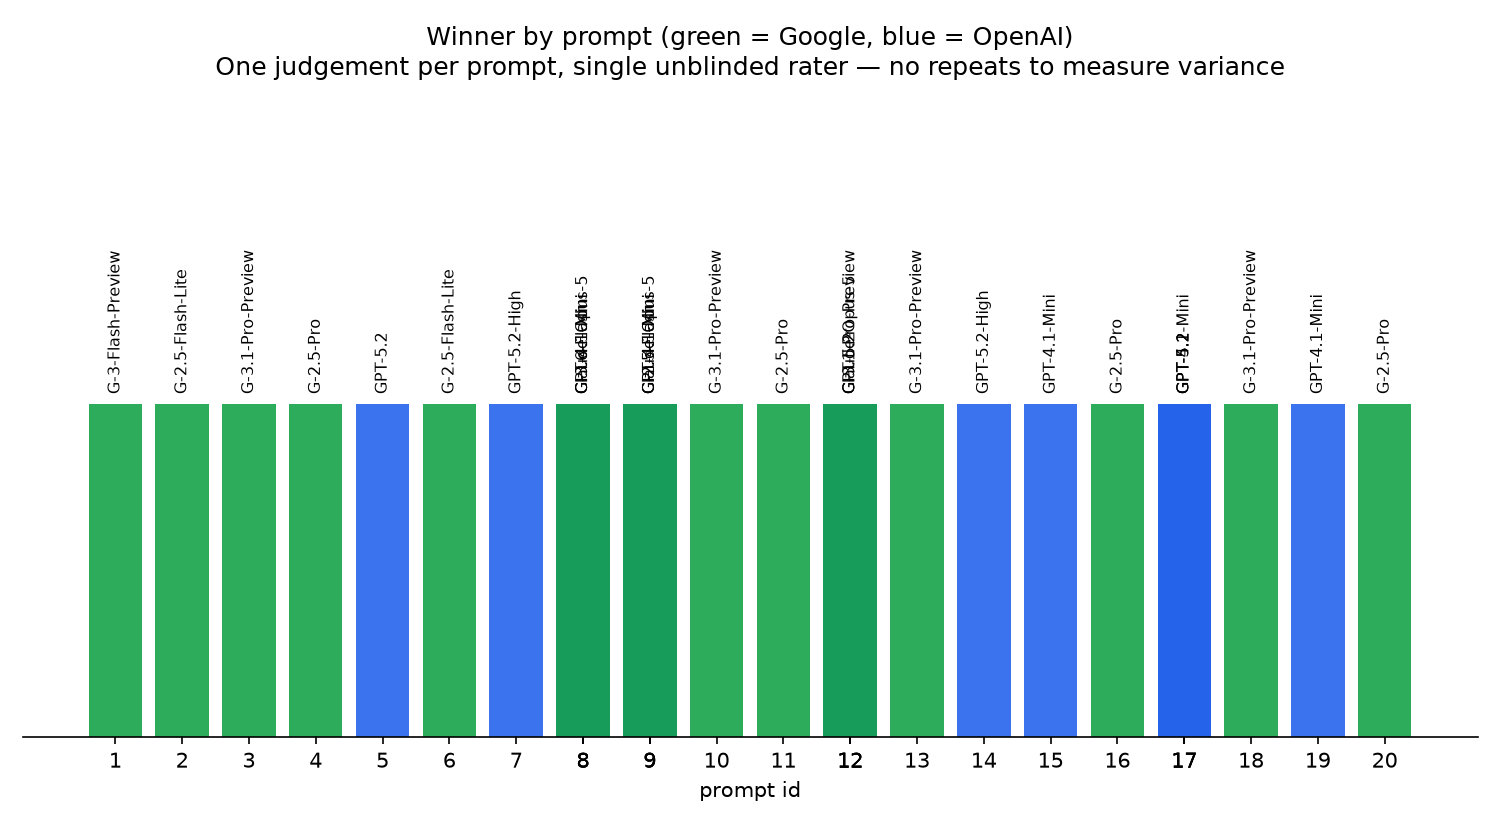
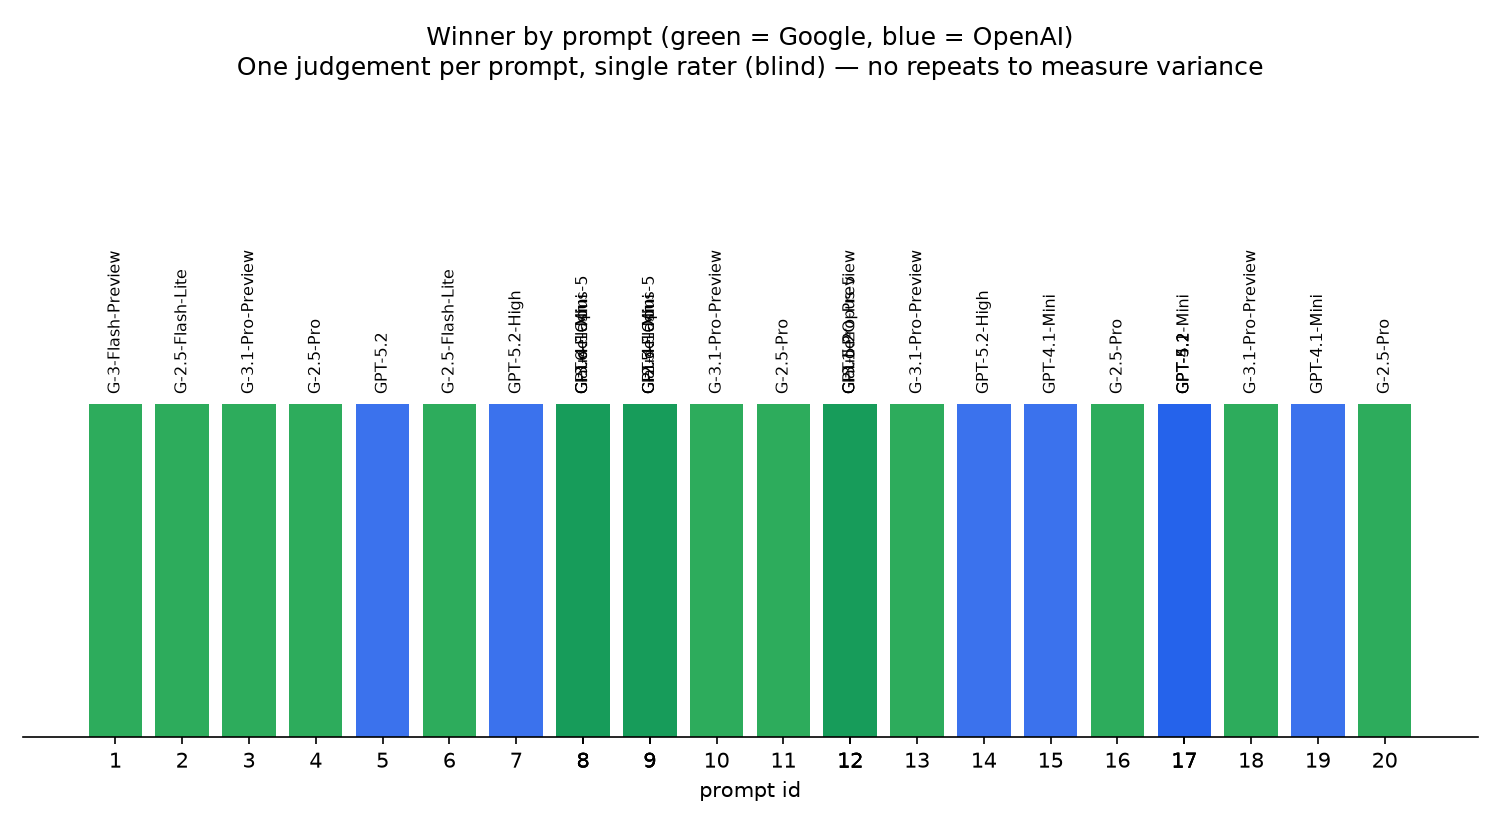
Correct the record: round 1 was blind too
Handshake AI Versus withheld model identities until after each verdict was
recorded, so round 1 was judged blind — same as round 2 on the identity-bias
axis. The old text throughout (README, dashboard, methodology.md, harness docs,
analysis docstrings) framed round 1 as unblinded, which was wrong.

Round 2 remains a real methodological upgrade, just not on blinding: archived
raw responses, a computed balanced schedule, a five-point rubric, and a logged
A/B presentation order (which is what enables the position-bias check). Reframed
the round-1/round-2 comparisons around those.

Regenerated winner_by_prompt.png for the caption change.

Changed region(s): [[0.1533, 0.0606, 0.8587, 0.0909]]

diff --git a/dashboard/index.html b/dashboard/index.html
@@ -652,7 +652,7 @@
     <div class="panel-body prose">
       <h4>How the comparisons were run</h4>
       <ul>
-        <li>Two rounds. <strong>Round 1</strong> (20 comparisons) ran in Handshake AI Versus, which presents two models side by side. <strong>Round 2</strong> (8 comparisons) ran on a blind A/B interface where the model names were withheld until the verdict was recorded.</li>
+        <li>Two rounds, both judged blind. <strong>Round 1</strong> (20 comparisons) ran in Handshake AI Versus, which withheld the model names until the verdict was recorded. <strong>Round 2</strong> (8 comparisons) ran on the project's own blind A/B harness, which additionally archives every raw response and logs the presentation order.</li>
         <li>Each prompt was shown to two models; both responses were read in full and a single winner was chosen, scored across five dimensions.</li>
         <li>Judging criteria: technical correctness, completeness, operational usefulness to a SOC, clarity, realism, and hallucination resistance where the prompt tested it.</li>
         <li>A short written rationale was recorded for every decision — all of them are in the results table above.</li>
@@ -661,7 +661,7 @@
       <h4>Why the results are hedged as heavily as they are</h4>
       <ul>
         <li><strong>The sample is too small to rank this many models.</strong> The confidence intervals above are the honest width of the design, not a formality.</li>
-        <li><strong>One judge, and no second rater.</strong> I scored every comparison myself. Round 1 was unblinded — I could see which model wrote which answer, which is a live route for bias that nothing controlled for. Round 2 was blind. Either way there is no second rater, so there is no inter-rater agreement to report, and these verdicts have not been shown to be reproducible.</li>
+        <li><strong>One judge, and no second rater.</strong> I scored every comparison myself. Both rounds were blind to model identity — Versus revealed the names only after each verdict, and round 2's harness withholds them entirely. What is missing is a second rater, so there is no inter-rater agreement to report, and these verdicts have not been shown to be reproducible.</li>
         <li><strong>Unbalanced pairings.</strong> Not a round robin — see the pairing matrix. Strength of schedule varies substantially between models.</li>
         <li><strong>Few repeats.</strong> Most prompts were judged once, so within-prompt judging variance is largely unmeasured.</li>
         <li><strong>Round 1's raw model outputs were not archived</strong>, so those judgements cannot be independently re-scored. Round 2's responses are all saved, which is the difference between a claim and a checkable one.</li>

diff --git a/harness/judge.py b/harness/judge.py
@@ -1,16 +1,17 @@
 """
 Blind pairwise judging.
 
-The second-largest limitation of the original dataset, after the missing raw
-responses, is that a single judge scored every comparison while knowing which
-model produced which answer. Model identity is a well-documented route for bias
-and nothing in that design controlled for it.
+The original round was judged blind — Handshake AI Versus withheld the model
+names until the verdict was in — but it kept no record of which response was
+shown first and no rubric, so its verdicts can be neither position-bias-checked
+nor decomposed.
 
-This does. For each pairing it renders the two archived responses side by side
-as "Response A" and "Response B", with the model names withheld, in an order
-decided by a seed rather than by the schedule. The mapping is written to
-data/judgements.csv only after the verdict is recorded, so it cannot leak into
-the judgement, and the seed makes the whole run reproducible.
+This harness keeps the blinding and adds both. For each pairing it renders the
+two archived responses side by side as "Response A" and "Response B", with the
+model names withheld, in an order decided by a seed rather than by the schedule.
+The mapping is written to data/judgements.csv only after the verdict is recorded,
+so it cannot leak into the judgement, and the seed makes the whole run
+reproducible.
 
     python harness/judge.py --render            # write the blind pages + index
     python harness/judge.py --import FILE       # ingest verdicts from those pages
@@ -201,8 +202,9 @@ def main():
                              "test, so a wrong value corrupts a statistic")
     parser.add_argument("--round", default="2",
                         help="round label written to prompt_results.csv (default 2). "
-                             "Round 1 is the original unblinded Handshake Versus data; "
-                             "keeping them separable is the point of the column.")
+                             "Round 1 is the original Handshake Versus data (blind, but "
+                             "no archived responses or rubric); keeping them separable is "
+                             "the point of the column.")
     args = parser.parse_args()
 
     if hasattr(sys.stdout, "reconfigure"):

diff --git a/analysis/build_dashboard.py b/analysis/build_dashboard.py
@@ -30,10 +30,11 @@ DASHBOARD = os.path.join(ROOT, "dashboard", "index.html")
 START = "// <<<GENERATED-DATA — do not edit by hand; run: python analysis/build_dashboard.py"
 END = "// GENERATED-DATA>>>"
 
-# `round` separates the original Handshake Versus comparisons (round 1 — a single
-# unblinded judge, no archived responses) from harness-collected ones (round 2 —
-# blind A/B, responses on disk). Mixing them silently would launder round one's
-# limitations into the newer data, so the column travels with every row.
+# `round` separates the original Handshake Versus comparisons (round 1 — blind,
+# but no archived responses, no rubric, ad-hoc pairings) from harness-collected
+# ones (round 2 — blind A/B, responses on disk, computed schedule). Mixing them
+# silently would launder round one's limitations into the newer data, so the
+# column travels with every row.
 COMPARISON_FIELDS = ["prompt_id", "category", "prompt_text",
                      "model_a", "model_b", "winner", "rationale", "round"]
 

diff --git a/analysis/agreement.py b/analysis/agreement.py
@@ -1,12 +1,11 @@
 """
 Judge reliability: inter-rater agreement, position bias, rubric consistency.
 
-Round one had a single judge who knew which model wrote which answer, and there
-was no second rater — so there was no agreement figure to report and no way to
-tell a real quality difference from one judge's taste. Blinding (harness/judge.py)
-removes the identity bias. It does not tell you whether the judgements are
-reproducible. Only a second rater does that, and this module is what turns their
-work into a number.
+Both rounds were judged blind to model identity, but by a single rater with no
+second judge — so there is no agreement figure to report and no way to tell a
+real quality difference from one judge's taste. Blinding removes the identity
+bias. It does not tell you whether the judgements are reproducible. Only a second
+rater does that, and this module is what turns their work into a number.
 
 Three checks, all computed from data/judgements.csv:
 

diff --git a/analysis/make_visualizations.py b/analysis/make_visualizations.py
@@ -144,7 +144,7 @@ def plot_winner_by_prompt(rows, path):
     ax.set_xlabel("prompt id", fontsize=10)
     ax.spines[["top", "right", "left"]].set_visible(False)
     ax.set_title("Winner by prompt (green = Google, blue = OpenAI)\n"
-                 "One judgement per prompt, single unblinded rater — no repeats to measure variance",
+                 "One judgement per prompt, single rater (blind) — no repeats to measure variance",
                  fontsize=12, pad=14)
     fig.tight_layout()
     fig.savefig(path, dpi=150)

diff --git a/README.md b/README.md
@@ -30,6 +30,8 @@ Rather than claiming broad model superiority, this project explores whether **di
 - Platform: Handshake AI Versus (round one — **no longer reachable**; see
   [the collection harness](harness/) for what replaces it)
 - Evaluation design: pairwise model comparisons
+- Judging: blind to model identity in both rounds (Versus revealed the names only after
+  each verdict; the round-2 harness withholds them entirely)
 - Number of prompts: 20 (round 1); 28 comparisons total across two rounds
 - Domains tested:
   - cybersecurity knowledge
@@ -57,11 +59,13 @@ regenerated from `data/prompt_results.csv` by `analysis/statistics.py` — none 
 maintained by hand.
 
 The comparisons come from two rounds, and they are **not** methodologically equivalent.
-Round 1 (20 comparisons) was scored in Handshake AI Versus by a single judge who could see
-which model wrote which answer, with no responses archived. Round 2 (8 comparisons) was
-scored through the blind A/B interface in `harness/`, with every raw response saved to
-`responses/` first. The `round` column in `prompt_results.csv` keeps them separable; treat
-any aggregate over both as carrying round 1's limitations.
+Both were judged blind to model identity — in round 1 (20 comparisons) Handshake AI Versus
+withheld the model names until the verdict was recorded; round 2 (8 comparisons) uses the
+blind A/B interface in `harness/`. What round 1 lacks is everything around the verdict: no
+raw responses archived, no five-point rubric, no record of which response was shown first,
+and an ad-hoc pairing draw rather than a computed schedule. The `round` column in
+`prompt_results.csv` keeps them separable; treat any aggregate over both as carrying
+round 1's limitations.
 
 ![Win rate by model with 95% Wilson intervals](visualizations/wins_by_model.png)
 
@@ -224,13 +228,13 @@ reached p ≤ 0.05.** At five appearances, a model that wins every single compar
 still lands at p = 0.06. Those results were unfalsifiable before the first response
 was read, and the dashboard now says so per model.
 
-[`harness/`](harness/) fixes that, and the two other limitations round one documented:
+[`harness/`](harness/) fixes that, and the other limitations round one documented:
 
 | Round one | Round two |
 |---|---|
 | Ad-hoc pairings; 12 of 28 possible pairs occurred | `schedule.py` — 33 comparisons, **every model appearing exactly 6 times**, 82% cross-vendor |
 | Raw model outputs never archived | `collect.py` — every response written to `responses/<prompt_id>/<model>.md` before judging |
-| Single judge who knew which model wrote which answer | `judge.py` — responses shown as **A/B with identities withheld**, order set by seed, plus a five-point rubric |
+| Blind, but only a winner and a one-line note recorded | `judge.py` — still blind, with the seed-set A/B order logged and a **five-point rubric**, so position bias and rubric consistency become checkable |
 | Vendor inferred from the model's name | `data/models.csv` — an explicit registry of model, vendor, family and tier |
 | One comparison per category, so no per-category claim was testable | `schedule.py --per-category 3` — 60 comparisons, exactly 3 per category, models still balanced at 9–10 appearances |
 | No second rater, so no agreement figure existed | `analysis/agreement.py` — Cohen's kappa between judges, a position-bias test, and rubric-vs-verdict consistency |
@@ -331,14 +335,15 @@ These are the reasons the results above are hedged as heavily as they are.
 - **n = 28 is too small to rank eleven models.** Appearances range from one to eleven,
   and seven of the eleven models could not have produced a significant result under any
   outcome. The confidence intervals above are the honest width, not a formality.
-- **A single judge, unblinded in round 1.** I scored every comparison myself. In round 1 I
-  could see which model wrote which answer, which is a live route for bias that nothing
-  controlled for. Round 2 was scored through the blind A/B interface, so identity bias is
-  removed there — but there is still no second rater, and therefore no inter-rater agreement
-  to report in either round. `analysis/agreement.py` computes Cohen's kappa the moment a
-  second person scores the same pairings; until then it correctly reports that it cannot.
-  A position-bias check does run on round 2: 5 of 8 verdicts went to whichever response was
-  shown first, exact binomial p = 0.73, which at n = 8 has little power to detect anything.
+- **A single judge, no second rater.** I scored every comparison myself. Both rounds were
+  judged blind to model identity — Versus revealed the names only after each verdict, and
+  round 2's harness withholds them by seed-assigned A/B — so identity bias is controlled for
+  throughout. What is missing is a second rater, and therefore any inter-rater agreement, in
+  either round. `analysis/agreement.py` computes Cohen's kappa the moment a second person
+  scores the same pairings; until then it correctly reports that it cannot. A position-bias
+  check runs on round 2 (round 1 kept no record of presentation order): 5 of 8 verdicts went
+  to whichever response was shown first, exact binomial p = 0.73, which at n = 8 has little
+  power to detect anything.
 - **Unbalanced pairings.** Not a round robin. Strength of schedule varies: GPT-4o drew a
   Gemini opponent in all six of its comparisons, so its 0–6 is partly a statement about who
   it faced. It is the only significant result here and it still carries that caveat.

diff --git a/methodology.md b/methodology.md
@@ -5,7 +5,8 @@
 This project used pairwise human evaluation rather than an automated benchmark suite.
 
 For each prompt:
-1. Two models were compared side by side in Handshake AI Versus.
+1. Two models were compared side by side in Handshake AI Versus, with their identities
+   hidden until after the verdict was recorded.
 2. Responses were reviewed for correctness, completeness, clarity, and SOC usefulness.
 3. A single winner was selected.
 4. Notes were recorded explaining the decision.
@@ -33,7 +34,7 @@ specific claim untestable — the mapping is one-to-one.
 | Improvement | Why | Where |
 |---|---|---|
 | Balanced schedule, every model 6+ appearances | At 5 appearances a perfect record still gives p = 0.06. Six of eight models in round one were below that line, so their results were unfalsifiable before the first response was read. | `harness/schedule.py` |
-| Blind A/B presentation, order fixed by seed | A single judge scored every round-one comparison knowing which model wrote which answer. Model identity is a live route for bias and nothing controlled for it. | `harness/judge.py` |
+| Presentation order logged, fixed by seed | Round one was judged blind, but Versus kept no record of which response was shown first, so its verdicts cannot be checked for position bias. The harness logs the seed-assigned A/B order. | `harness/judge.py` |
 | Five-point rubric — correctness, completeness, usefulness, clarity, grounding | Round one recorded a winner and a sentence. A rubric makes the judgement decomposable and lets disagreement be located rather than just observed. | `harness/judge.py` |
 | Raw responses archived before judging | Round one saved none, so no judgement can be independently re-scored. This is the single biggest obstacle to anyone reproducing the work. | `harness/collect.py` → `responses/` |
 | Explicit model registry | Vendor used to be inferred from a prefix test on the model's name, which silently mislabels every model from a third vendor. | `data/models.csv` |

diff --git a/harness/README.md b/harness/README.md
@@ -1,11 +1,13 @@
 # Collection harness
 
 The first twenty comparisons were run by hand in Handshake AI Versus. That platform
-is no longer reachable, and the original method had three limitations that a manual
-workflow could not fix anyway:
+is no longer reachable, and while its judging was blind — model names withheld until
+the verdict was in — the original method had three limitations that a manual workflow
+could not fix anyway:
 
 - raw model outputs were never archived, so no judgement can be independently re-scored
-- a single judge scored every comparison while **knowing which model wrote which answer**
+- only a winner and a one-line note were recorded — no rubric, and no record of which
+  response was shown first, so position bias can't be tested
 - pairings were drawn ad hoc, leaving six of eight models unable to produce a
   significant result no matter how they performed
 
